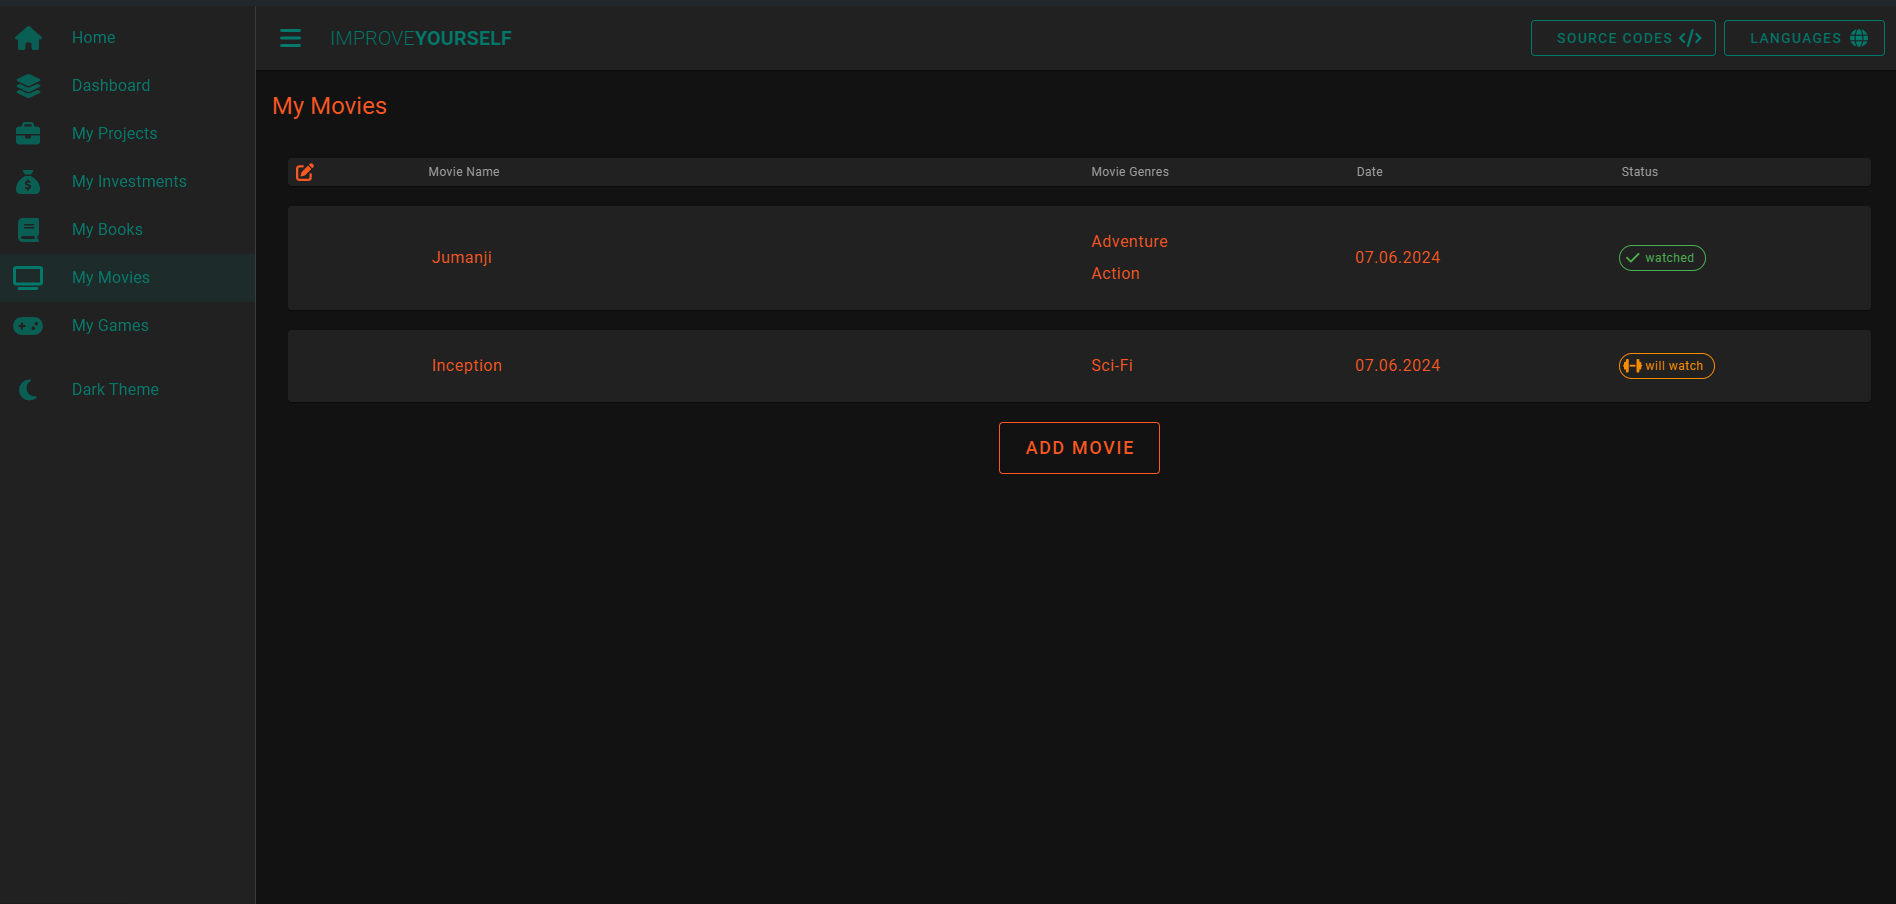
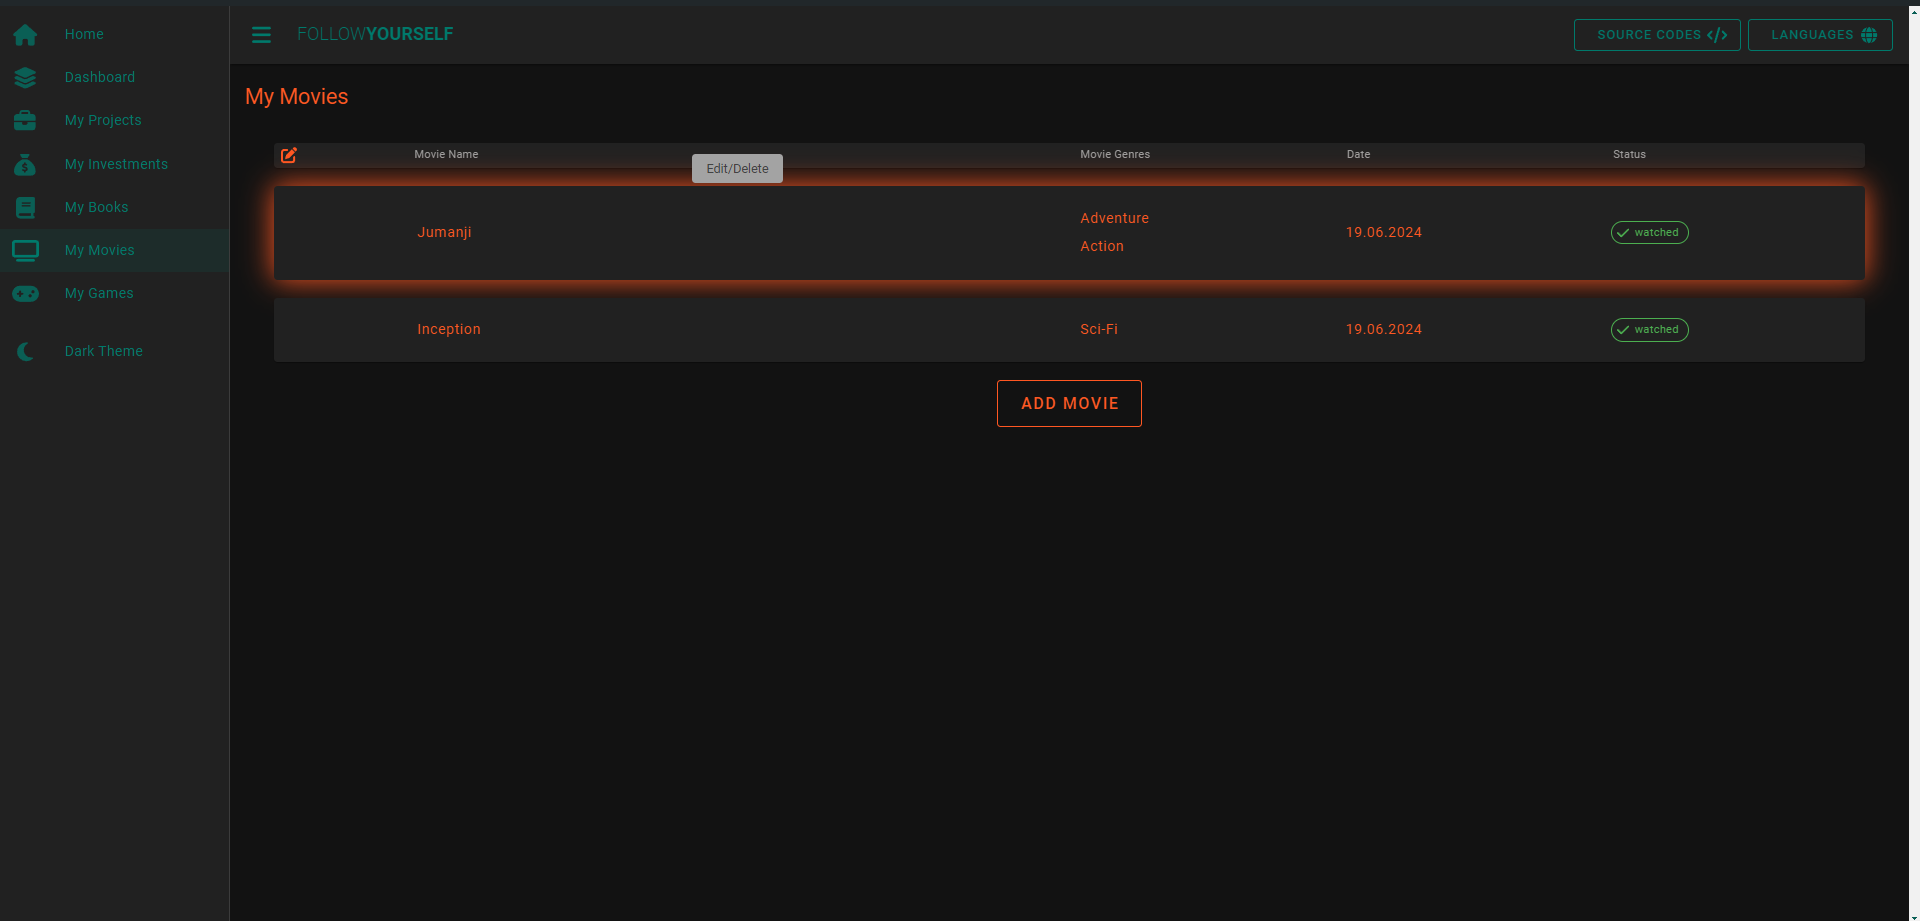
fixed issues

diff --git a/public/index.html b/public/index.html
@@ -9,7 +9,7 @@
   <link rel="stylesheet" href="https://cdnjs.cloudflare.com/ajax/libs/font-awesome/6.5.2/css/all.min.css"
     integrity="sha512-SnH5WK+bZxgPHs44uWIX+LLJAJ9/2PkPKZ5QiAj6Ta86w+fsb2TkcmfRyVX3pBnMFcV7oQPJkl9QevSCWr3W6A=="
     crossorigin="anonymous" referrerpolicy="no-referrer" />
-  <title>GK Software | Improve Yourself</title>
+  <title>GK Software | Follow Yourself</title>
 </head>
 
 <body>

diff --git a/src/components/Navbar.vue b/src/components/Navbar.vue
@@ -215,7 +215,7 @@ export default {
     </template>
 
     <v-app-bar-title class="d-none d-sm-flex text-uppercase text-teal-darken-2">
-      <span class="font-weight-light">improve</span>
+      <span class="font-weight-light">follow</span>
       <span class="font-weight-bold">yourself</span>
     </v-app-bar-title>
 

diff --git a/README.md b/README.md
@@ -1,5 +1,5 @@
-## Improve Yourself
-<img src="src/assets/preview-img/general-view.png" />
+## Follow Yourself
+<img src="src/assets/preview-img/general.png" />
 
 ## Features
 
@@ -29,13 +29,13 @@
 To clone the repository, run the following command:
 
 ```sh
-git clone https://github.com/gokhankatar/improve-yourself
+git clone https://github.com/gokhankatar/follow-yourself
 
 ``` 
 go to directory
 
 ```sh
-cd .\improve-yourself\
+cd .\follow-yourself\
 
 ``` 
 and then install npm:
